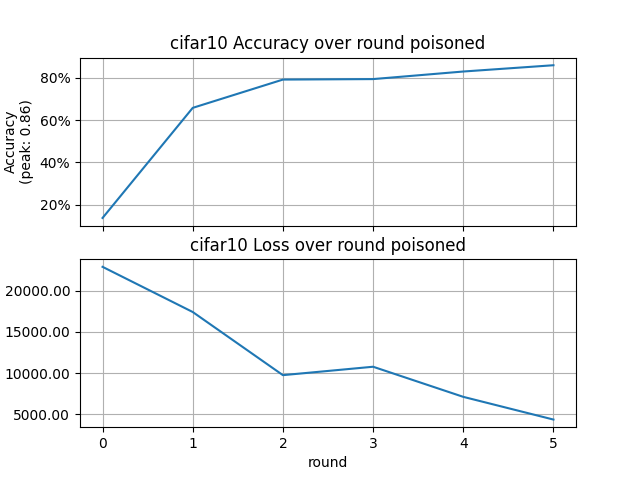
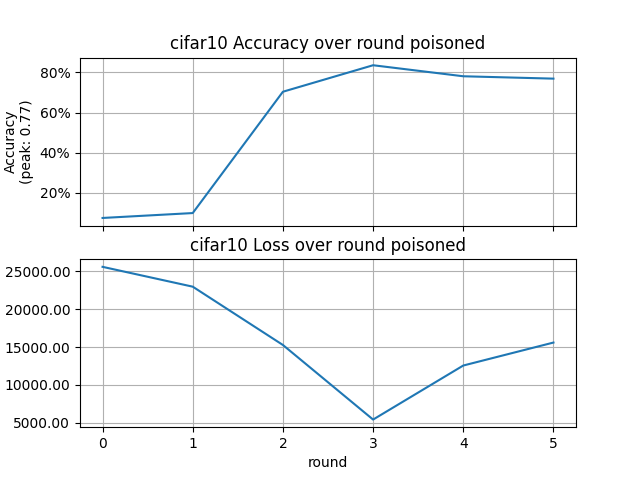
fix: poisoning efficenty

diff --git a/src/Utils.py b/src/Utils.py
@@ -152,7 +152,6 @@ class Utils:
             
         num_ftrs = model.fc.in_features
 
-        #test
         model.fc = torch.nn.Linear(num_ftrs, 256)
         model.fc = torch.nn.Sequential(
             torch.nn.Dropout(0.5),
@@ -160,23 +159,7 @@ class Utils:
         )
         
         return model
-    
-        #initial arch
-        # model.fc = torch.nn.Linear(num_ftrs, 1024)
-        # model.fc = torch.nn.Sequential(
-        #     torch.nn.Dropout(0.5),
-        #     torch.nn.Linear(num_ftrs, 1024),
-        #     torch.nn.Dropout(0.2),
-        #     torch.nn.Linear(1024, 512),
-        #     torch.nn.Dropout(0.2),
-        #     torch.nn.Linear(512, 256),
-        #     torch.nn.Dropout(0.2),
-        #     torch.nn.Linear(256, 128),
-        #     torch.nn.Dropout(0.2),
-        #     torch.nn.Linear(128, self.classes_number)
-        # )
-        
-        # return model
+
 
     @classmethod
     def printLog(cls, msg):
